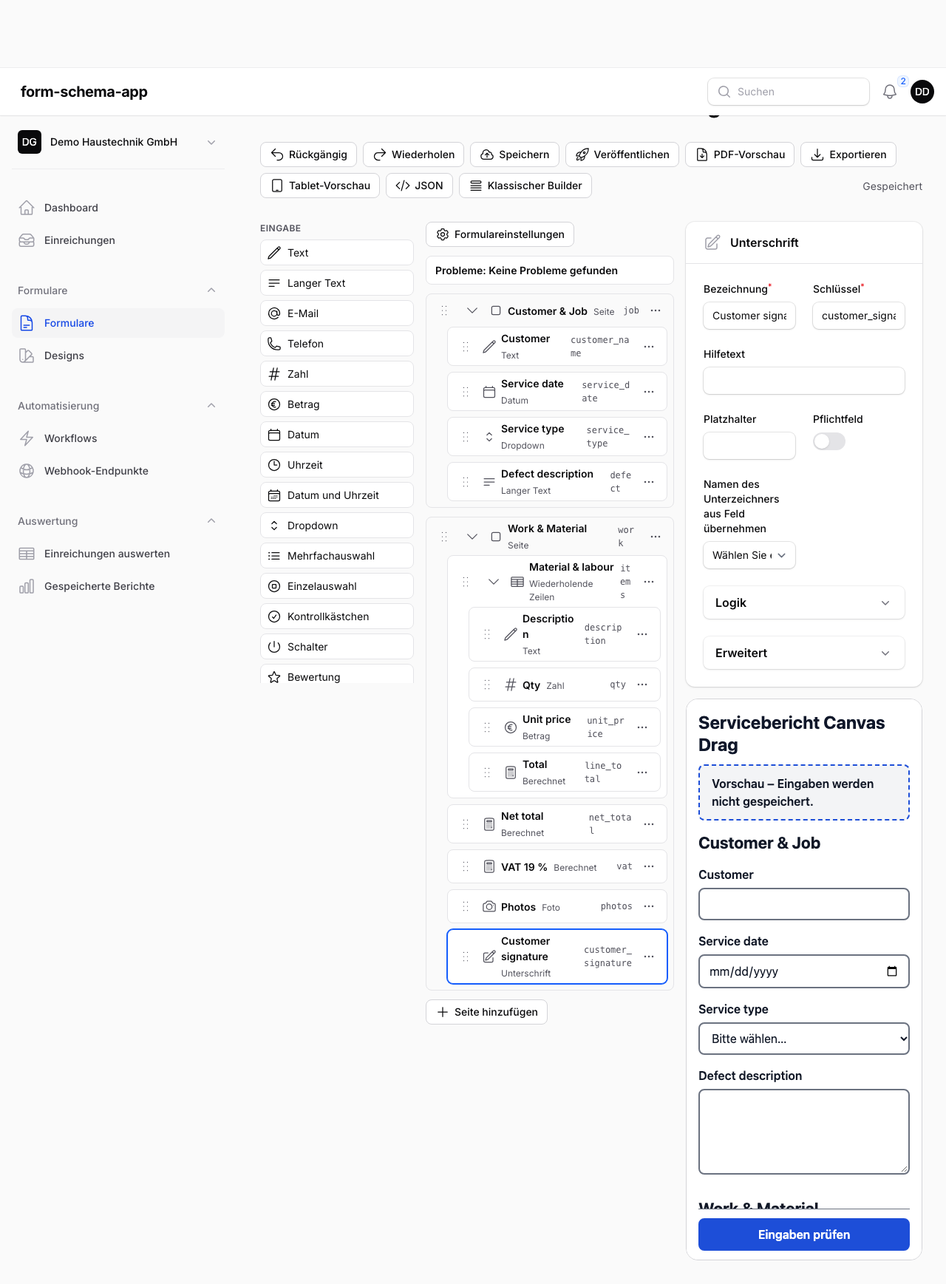
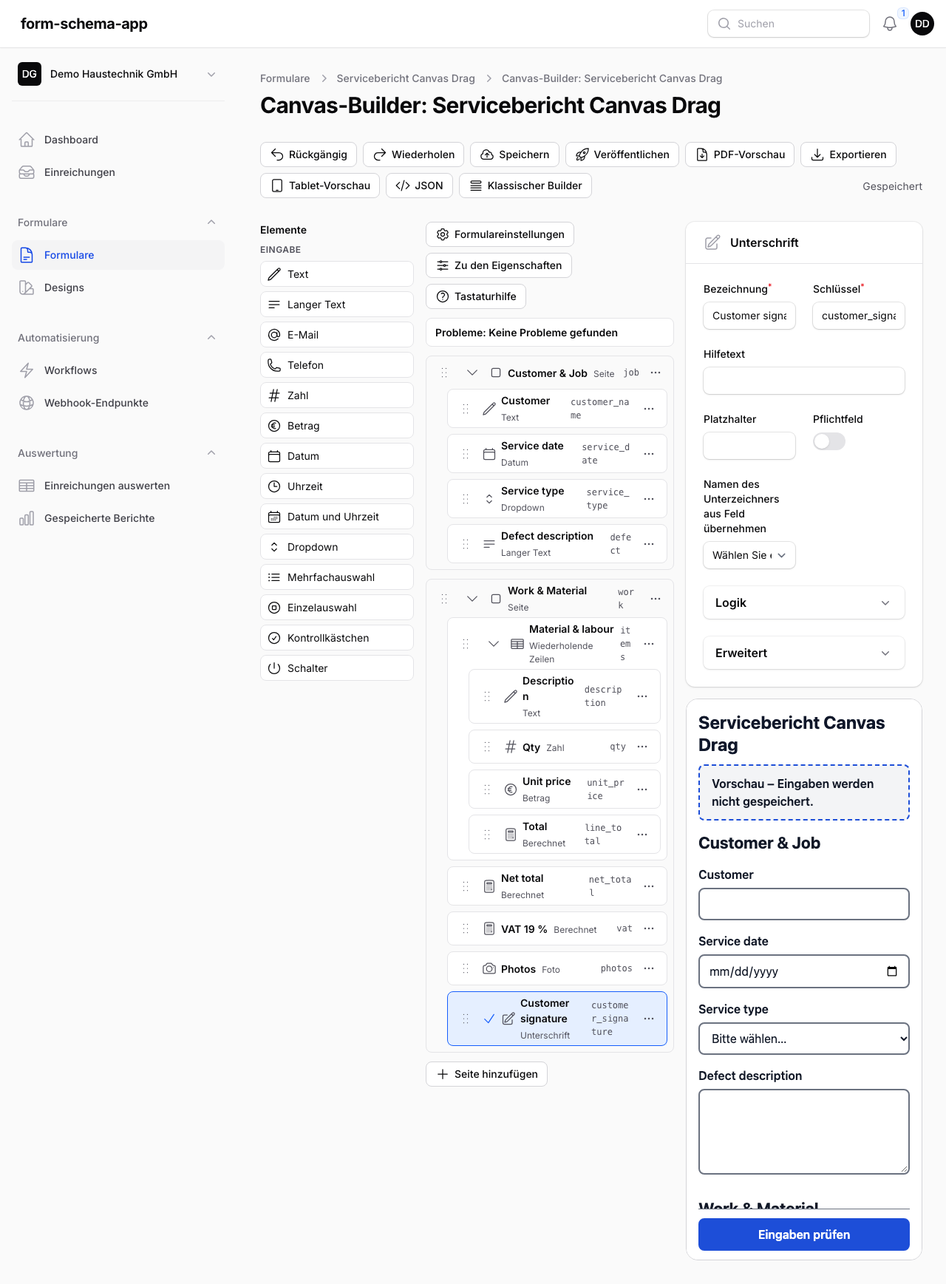
docs: M7 gate report, plan, journal, state, QUESTIONS 18

diff --git a/docs/agent/milestones/M7.md b/docs/agent/milestones/M7.md
@@ -1,121 +1,87 @@
-# M7 SSO + Builder v2: working notes (gate report follows at T13)
+# M7 SSO + Builder v2: gate report (2026-10-18)
 
-Architecture: ADR 0036 (SSO), ADR 0037 (Builder v2). Agents read both ADRs and this file.
+Architecture: ADR 0036 (SSO) and ADR 0037 (Builder v2), both with amendments. The parallel-agent ownership notes from this milestone are in git history (`git log -- docs/agent/milestones/M7.md`).
 
-## Rules for all M7 agents
-- Shared working tree. Edit only the files you own. Never commit and never change git state; the orchestrator commits.
-- No composer/npm installs, migrations or route changes: ask the orchestrator in your report.
-- PHP tests use your own DB (`DB_DATABASE=form_schema_test_<x>`, given in your brief).
-- TDD. Files < 400 lines, functions < 50 lines, nesting ≤ 4. Domain code in app/Domain, thin Filament/controllers.
-- Never weaken or delete a test. List every changed assertion with the reason.
-- Gates for your slice:
-  - PHP: Pest for your tests, then the full suite at the end; PHPStan (both configs); Pint; `vendor/bin/rector --dry-run` must report 0 files.
-  - JS: typecheck, lint, prettier, test.
+## What was built
+### SSO (§8.7)
+- **Data model:** per-organization identity providers (OIDC or SAML) with encrypted config and a write-only secret; DNS-verified domains that only one organization can verify; claim mappings (role XOR group, never Owner); external identities keyed by provider + subject.
+- **OIDC:** socialiteproviders/openidconnect 1.0.1, covering Entra (tenant and `tid`), Google Workspace (`hd` + email_verified) and generic OIDC (Keycloak, Authentik, Zitadel).
+  - id_token checks: issuer, audience, signature (JWKS), nonce and PKCE S256.
+  - A Google or Microsoft issuer requires its flavor.
+  - HTTP goes through an SSRF-guarded client with address pinning.
+- **SAML 2.0:** socialiteproviders/saml2 4.10 plus our own hardening (Audience, Recipient, Destination, InResponseTo, replay after signature, XXE).
+  - The ACS runs without a session and hands over through a one-time ticket.
+  - The subject is a persistent NameID or a configured stable attribute.
+- **Home-realm discovery:** email-first login in the admin panel and the Field App, throttled per address and IP. Enforced domains go straight to the IdP; others choose between the IdP and a password.
+- **JIT and mapping:** membership with a default role and group; IdP-managed roles and groups re-synced on every login; deactivated users and memberships refused; cross-organization invitations work under enforcement.
+- **Enforcement:**
+  - Password login and reset are refused for enforced domains on Fortify, Filament and invitation paths.
+  - A break-glass Owner keeps password + MFA, and responses for enforced addresses are uniform.
+  - Switching enforcement on ends password sessions.
+  - Managed email addresses cannot leave the domain.
+- **Administration:** an Owner-gated SSO page with copyable URLs, TXT instructions, a test sign-in with its result, translated last errors, the enforcement preconditions and a confirmation step.
+  - Connection changes unlink identities and alert the Owners.
+  - Daily domain recheck and hourly provider check; `sso_misconfigured` notifications, throttled.
+  - Login CSRF protection through session-bound start tokens.
+  - Production refuses the dev-only settings.
+- **Keycloak 26.7.5** in compose (profile `sso`, also in CI), with a realm containing OIDC and SAML clients, a groups mapper and a user-id mapper. A demo seed provides orgs `sso-demo` (OIDC, enforced) and `saml-demo` (SAML).
 
-## SSO (ADR 0036)
-### Stable interfaces (namespace `App\Domain\Identity\Sso\…`; created by the skeleton)
-```php
-final readonly class ExternalProfile { /** @param array<string,mixed> $claims sanitized: groups, hd, tid, amr */
-  public function __construct(public IdentityProviderType $via, public string $issuer, public string $subject,
-    public ?string $email, public bool $emailVerified, public ?string $name, public array $claims) {} }
-final readonly class DiscoveryResult { public function __construct(public ?IdentityProvider $provider,
-  public ?string $redirectUrl, public bool $enforced) {} public function isSso(): bool; }
-final readonly class ProviderHealth { public function __construct(public bool $ok, public ?string $reason = null, public ?string $detail = null) {} }
-final class SsoRequiredException extends \RuntimeException { public function __construct(public readonly DiscoveryResult $discovery) }
-final class SsoLoginRefused extends \RuntimeException { public function __construct(public readonly SsoRefusal $reason) }
-// implemented by A
-interface HomeRealmDiscovery { public function discover(string $email, SsoClient $client): DiscoveryResult; }
-interface PasswordAuthGate { /** @throws SsoRequiredException */ public function assertPasswordLogin(string $email): void;
-  /** @throws SsoRequiredException */ public function assertPasswordReset(string $email): void; public function isBreakGlass(User $user): bool; }
-interface SsoProviderFactory { public function oidc(IdentityProvider $p): \SocialiteProviders\OpenIDConnect\Provider;
-  public function saml(IdentityProvider $p): \SocialiteProviders\Saml2\Provider; }
-interface ProviderHealthCheck { public function check(IdentityProvider $p): ProviderHealth; }
-final readonly class CompleteSsoLogin { /** @throws SsoLoginRefused */ public function handle(IdentityProvider $p, ExternalProfile $profile): User; }
-// implemented by B
-interface SsoMisconfigurationReporter { public function report(IdentityProvider $p, string $reason, string $detail): void; }
-interface TxtRecordResolver { /** @return list<string> */ public function txt(string $name): array; }
-final readonly class AddSsoDomain { public function handle(Organization $org, string $domain, User $actor): SsoDomain; }
-final readonly class VerifySsoDomain { public function handle(SsoDomain $domain, ?User $actor = null): DomainVerification; }
-final readonly class SaveIdentityProvider { /** @param array<string,mixed> $config */ public function handle(Organization $org,
-  IdentityProviderType $type, string $name, array $config, ?string $newSecret, User $actor): IdentityProvider; }
-final readonly class SetSsoEnforcement { /** @throws ValidationException */ public function handle(IdentityProvider $p, bool $on, ?User $breakGlass, User $actor): void; }
-```
+### Builder v2 (§8.2)
+- **Canvas page:** a page next to the classic builder that edits the same draft, so no migration.
+  - The browser holds the working copy (TypeScript store with pure operations, 100-step undo/redo); the server validates whole definitions (`SyncDraft`) with a checksum guard against stale tabs, in both builders.
+  - Page HTML is 82.7 kB, against 4.5 MB for v1; JS is 34 kB gzipped.
+- **Interaction:**
+  - Palette, canvas and inspector. The canvas is a keyed DOM renderer under `wire:ignore`, with our own SortableJS 1.15.7 import.
+  - Full keyboard model: pick up, move, into or out of groups, between pages, Move menu with Shift+F10, add/remove columns, "Go to properties". A live region announces changes.
+  - The inspector reuses the v1 fields (logic and calculation editors). Server key suggestions never overwrite a typed key.
+- **Server operations:** publish, Preview PDF and export are guarded by the draft checksum, and publish re-reads the draft under its lock. Explicit saves are audited.
+- **Cloning:** fresh ids, unique keys and rewritten references (this also fixed v1's duplicate `_copy` keys).
 
-Field App contract:
-- `POST /auth/sso/discover` returns plain JSON (not the API envelope, like the Fortify routes).
-- The IdP returns to `/app/login?sso=ok|sso_error=<code>`.
-- A Fortify login refused by enforcement answers 422 `{message, errors:{sso_required:[msg]}}`.
-- Error codes: sso_failed, sso_denied, account_inactive, not_member, domain_not_verified, email_unverified, provider_unavailable.
+## Acceptance criteria → tests
+| Requirement | Test |
+|---|---|
+| §8.7 AC login through Keycloak creates a user with the mapped role | E2E `tests/e2e/m7-sso.spec.ts` (Field App and admin; Designer via groups mapping, default role without groups), `m7-saml.spec.ts` (Reviewer); `tests/Feature/Sso/{OidcLogin,JitProvisioning,MappingSync,SamlLogin}Test.php` |
+| §8.7 AC enforcement rejects password login for SSO domains | E2E `m7-sso.spec.ts` (no password step; `/auth/login` and forgot-password → 422 `sso_required`; break-glass with TOTP still works); `EnforcementTest`, `CoreBreakGlassTest`, `AdminLoginDiscoveryTest` |
+| §8.7 domain verification, discovery, JIT, audit | `tests/Feature/Sso/Admin/*`, `DiscoveryTest`, `CoreReturningDomainTest`, `CoreInvitationTest`, `SsoModelsTest` |
+| §8.7 security (review) | `AdminFix{Security,AttackPath,Profile}Test`, `CoreFrontChannelTest`, `CoreLoginCsrfTest`, `CoreIssuerFlavorTest`, `CoreSamlSubjectTest`, `ProductionGuardTest`, `SsrfGuardTest` |
+| §8.2 AC build the §7.2 example without touching JSON | E2E `m7-builder-v2.spec.ts` (by drag and by keyboard only, both publish) |
+| §8.2 AC invalid definitions cannot be published | `SyncDraftTest`, `CanvasFixPublishTest`, `CanvasBuilderPageTest`; E2E lint panel |
+| §8.2 AC preview = Field App | same `/form-preview/` renderer iframe; E2E preview step |
+| §8.2 AC Builder ↔ spec mapping lossless | `tests/Unit/Forms/NodeMapperTest.php` (every node of every template), Vitest `fidelity.test.ts`, E2E v1 ↔ v2 round trip |
+| §11 accessibility of the builder | E2E axe check on the canvas; Vitest ARIA/keyboard/focus tests |
 
-### Ownership
-**A: backend login core** (M7-T03, T04 server, T05, T06 server, T09)
-- Domain code:
-  - app/Domain/Identity/Sso/Providers/**, Login/**
-  - Discovery/VerifiedDomainDiscovery, Enforcement/DomainPasswordGate
-  - Health/FetchProviderHealth, Health/CheckProvidersCommand
-- HTTP: app/Http/Controllers/Sso/**, app/Http/Middleware/Sso/**
-- Existing files: FortifyServiceProvider.php, app/Actions/Fortify/ResetUserPassword.php, app/Domain/Audit/Listeners/LogAuthEvents.php, AcceptInvitation, InvitationController
-- Lang: lang/{en,de}/sso.php
-- Tests: tests/Feature/Sso/{Oidc,Jit,Mapping,Enforcement,Discovery,Saml,Health}*Test.php, tests/Unit/Sso/**, tests/Support/Sso/{FakeOidcIdp,FakeSamlIdp}.php, tests/Fixtures/saml/**
+## Gate results
+- **PHP:** 4303 tests green; coverage total 95.10 %, SDK 99.69 %, `Domain/Forms/Schema` 100 %, tenancy 100 %.
+  - PHPStan levels 8 and 10: 0 errors. Rector and Pint clean.
+  - Licenses OK (207 Composer, 660 npm); `composer audit` and `npm audit` clean.
+- **JS:**
+  - Tests: form-schema-js 608, renderer 111, Field App 614, builder-v2 243.
+  - Typecheck, ESLint, Prettier and build clean.
+  - Conformance: 391 PHP, 392 JS.
+- **E2E:** 34/34 in two runs, each on a fresh seed with Keycloak (`COMPOSE_PROFILES=sso`, `--workers=2`). Evidence is in `evidence/M7/`.
 
-**B: admin config, UI, notifications** (M7-T02, T04 admin, T06 admin, T07)
-- Domain code:
-  - app/Domain/Identity/Sso/Domains/** (DnsTxtRecordResolver, ConfigTxtRecordResolver, DomainName, Add/Verify/RemoveSsoDomain, RecheckSsoDomainsCommand)
-  - app/Domain/Identity/Sso/Admin/** (SaveIdentityProvider, SetSsoEnforcement, Save/DeleteClaimMapping)
-  - Sso/Health/NotifySsoMisconfiguration
-- Notifications: StoredNotification.php, ChannelPreferences.php
-- Policies: app/Policies/{IdentityProviderPolicy,SsoDomainPolicy}.php
-- Filament: app/Filament/Admin/Pages/Sso/**, resources/views/filament/admin/pages/sso/**, app/Filament/Admin/Pages/Auth/{Login,RequestPasswordReset,ResetPassword}.php, AdminPanelProvider.php
-- Lang: lang/{en,de}/sso_admin.php, lang/{en,de}/notifications.php
-- Tests: tests/Feature/Sso/Admin/**, tests/Feature/Auth/AdminLoginDiscoveryTest.php, tests/Feature/Notifications/SsoMisconfiguredTest.php, tests/Support/Sso/FakeTxtRecordResolver.php
-- E2E helper: tests/e2e/support/auth.ts (adminLogin becomes email-first; it lands in the same change as the UI)
+## Reviews (security, correctness, UX/a11y): no critical findings
+| Finding | Severity | Resolution |
+|---|---|---|
+| A non-Owner admin could repoint the IdP and sign in as anyone in the verified domains | high | Owner-only connection/security settings, unlink + alert on change (c1b0c5a) |
+| Inspector edited the previous node after an insert; palette drops landed at index 0 | high | fixed (4a21074) |
+| Columns not keyboard-operable; focus skipped the inspector; Field App had no password option when not enforced | high (UX) | Move menu column items, focus order + Alt+P; choice screen (2a10f1b, 67b582e) |
+| Unauthenticated misconfiguration spoofing via callback `error` / unsigned SAML status | medium | state check first; front-channel input is never a provider fault |
+| JIT default role unchecked; email change leaves the enforced domain; generic flavor for Google; SAML email NameID as subject; returning logins after domain move; cross-org invitations | medium | fixed with tests |
+| Explicit saves not audited; publish could revert a concurrent save | medium/low | audit baseline; checksum-guarded publish under lock |
+| Break-glass enumeration, login CSRF, sessions survive enforcement, flow slots, status races, ACS throttle, production guard | low | fixed |
+| Errors vs warnings by colour, silent lint, data-loss conflict banner, jargon, plurals, confirmations | medium/low (UX) | fixed |
 
-**C: Field App, Keycloak, E2E** (M7-T04 app, T08, T09 E2E)
-- Field App: resources/field-app/src/screens/LoginScreen.tsx, src/screens/login/** (email step, sso return, errors), src/routes/search.ts, src/lib/api/{paths,endpoints,types}.ts, the field-app i18n files, plus their tests
-- docs/api/field-app-v1.md (Authentication)
-- Keycloak: docker/keycloak/**
-- Seeder: database/seeders/SsoDemoSeeder.php
-- E2E: tests/e2e/m7-sso.spec.ts, m7-saml.spec.ts, tests/e2e/support/{keycloak,totp}.ts, tests/e2e/support/field-app.ts (fieldAppLogin becomes email-first)
+Found by the E2E runs:
+- The admin login's password step kept the email step's buttons.
+- libcurl maps `*.localhost` to loopback, so the containers could not reach Keycloak until the address was pinned (LEARNINGS #58).
+- Discovery throttling locked out logins behind one IP (now 10/min per address).
 
-**Orchestrator only:**
-- composer.json/lock, package.json/lock
-- config/sso.php, config/fortify.php, .env.example
-- routes/*, bootstrap/*, app/Providers/SsoServiceProvider.php
-- migrations, skeleton models/enums, factories, User.php, NotificationEvent.php, DatabaseSeeder.php
-- compose*.yaml, .github/workflows/ci.yml
-- docs
-
-## Builder v2 (ADR 0037)
-Contract: resources/builder-v2/src/contract.ts and tests/Fixtures/builder-v2/contract/*.json (orchestrator-owned). Stub page: app/Filament/Admin/Resources/Forms/Pages/CanvasBuilder.php.
-
-**Livewire methods** (A implements, B calls; JSON travels as strings):
-- `sync(string $definition, string $baseChecksum, bool $force=false): array` with `#[Json]`; `{status saved|unchanged|invalid|conflict, checksum, lint{schema_errors,findings}, savedAt}`.
-- `save(...)`: same, but audited.
-- `inspect(string $kind, ?string $id, string $node, string $scope): void`.
-- `commitInspector(string $scope): void`; dispatches the browser event `builder-v2:node-changed` `{kind,id,node(json string)}`.
-- `cloneNode(string $node, string $scopeKeys): string` with `#[Json]`.
-- Actions: `$wire.mountAction('publish'|'previewPdf'|'exportDraft', {checksum})`. Publish dispatches `builder-v2:published` `{version, lockedIds}`.
-- `builder-v2:key-suggested` `{id, key, from}`: server key suggestion after a label change; the client applies it only while the key field still shows `from`.
-- The client's inspector `flush()` returns false when a commit was refused or failed; publish/preview/export/switch/save then stop and announce it.
-
-**Data attributes** (B renders, E2E uses):
-- `[data-builder-root]`, `[data-builder-ready]`, `data-builder-sync-state=idle|pending|saving|saved|invalid|conflict|error`
-- `[data-builder-palette-item="<type>"]`, `[data-builder-page="<id>"]` with `data-builder-page-key`
-- `[data-builder-list]` with `data-builder-container="pages|page:<id>|children:<id>|column:<id>:<i>"`
-- `[data-builder-node="<id>"]` with `data-builder-type`, `data-builder-key`, `aria-selected`; `[data-builder-handle]`
-- `[data-builder-action="move-up|move-down|move-into|move-out|move-page-prev|move-page-next|duplicate|delete|add-column|remove-column"]`
-- `[data-builder-toolbar="undo|redo|save|publish|preview-pdf|export|classic|preview-toggle|json"]`
-- `[data-builder-live]`, `[data-builder-lint-count]`, `[data-builder-lint-item][data-path]`, `[data-builder-inspector]` (with `data-builder-inspected="<id>|settings|"`: the node the inspector currently shows), `iframe[data-builder-preview]` inside `[data-builder-preview-pane]`
-- `[data-builder-goto-inspector]`, `[data-builder-help-toggle]`, `[data-builder-help]`, `#bv2-publish-reason[data-builder-publish-reason]`; Move menu items `data-builder-action=add-column|remove-column` with `data-column`
-
-### Ownership
-**BA: server**
-- New: CanvasBuilder.php (owned after the skeleton), Pages/CanvasInspectorSchema.php, app/Domain/Forms/Builder/{NodeMapper,ElementCloner,PaletteCatalog}.php, app/Domain/Forms/Support/PublishedElementIds.php, app/Domain/Forms/Actions/SyncDraft.php
-- Edited: BuilderMapper.php, BlockCloner.php, Builder/ElementBlocks.php (public `fields($type)`, icons), Pages/FormEditorSchema.php, Pages/EditForm.php (canvas link, loadedChecksum guard, PublishedElementIds), lang/{de,en}/forms.php (`forms.canvas.*`)
-- Tests: tests/Feature/Forms/{CanvasBuilderPageTest,CanvasInspectorTest,SyncDraftTest}.php, tests/Unit/Forms/{NodeMapperTest,ElementClonerTest,PaletteCatalogTest}.php; plus the existing FormBuilderPageTest and BlockClonerTest
-
-**BB: client**
-- resources/builder-v2/** (except package.json and src/contract.ts)
-- resources/views/filament/forms/builder-v2/**
-- lang/{de,en}/builder_v2.php
-- After BA lands: tests/e2e/m7-builder-v2.spec.ts, tests/e2e/support/builder-v2.ts, tests/e2e/fixtures/section-7-2.json
+## Deviations and known issues
+- One IdP per organization. No RP-initiated logout or SAML SLO.
+- Break-glass use is audited but not notified.
+- A pasted SAML metadata certificate rotation no longer notifies (a metadata URL heals itself).
+- On the SSO settings page, pressing Enter in the enforcement form submits without the confirmation dialog; the button path confirms.
+- The reviewer's Field App detail screen showed a generic error panel after approving in an E2E leftover page. To be investigated in M8.
+- Builder v2: v1 stays the default. Screen-reader behaviour of the tree pattern is unverified with real screen readers (M8 a11y audit). Undo history is not persisted.
+- iOS standalone PWA leaving its scope for the IdP is untested (QUESTIONS #18).

diff --git a/docs/agent/PLAN.md b/docs/agent/PLAN.md
@@ -113,19 +113,19 @@ AC refs point at BUILD_PROMPT sections. Test approach in brackets.
 - [x] M6-T11 Gate M6
 
 ## M7 SSO + Builder v2 (branch `m7-sso-builder`)
-- [ ] M7-T01 SSO architecture ADR + versions (laravel/socialite 5.31, socialiteproviders/manager 4.10 + keycloak/microsoft-azure, socialiteproviders/saml2 4.10, filament-socialite 3.3 only if it fits per-org dynamic providers); `identity_providers` (org, type oidc/saml, encrypted config, status) + `sso_domains` (org, domain, TXT token, verified_at) — §8.7, §6.4, §14.2 [model + encryption tests]
-- [ ] M7-T02 Domain verification: DNS TXT check behind a resolver interface (fake resolver in tests/CI), periodic re-check, uniqueness across orgs, audit — §8.7 [feature]
-- [ ] M7-T03 OIDC login per organization: dynamic Socialite provider (Entra, Google, generic OIDC/Keycloak) with PKCE/state/nonce, issuer + audience checks, callback → session; admin (Filament) and Field App (`/auth/sso/...` + device registration) — §8.7, §9.3 [feature with fake IdP]
-- [ ] M7-T04 Home-realm discovery: email-first login on admin and Field App; verified SSO domain → redirect to IdP; otherwise password — §8.7 [feature + Livewire + Field App test]
-- [ ] M7-T05 JIT provisioning + claim mapping: create user + membership with default role/group; optional claims → roles/groups (e.g. Entra groups); updates on each login; deactivated members refused — §8.7, §8.6 [feature]
-- [ ] M7-T06 Enforce SSO per org: password login (admin + Field App + API) rejected for its verified domains; break-glass Owner keeps password + MFA; password reset blocked for enforced domains — §8.7 AC [feature]
-- [ ] M7-T07 SSO admin UI (Filament): provider config (secret shown once), domains with TXT instructions + verify, test login, enforcement toggle with break-glass check; `sso_misconfigured` notification; audit of every auth event — §8.7, §8.9, §8.11 [Livewire]
-- [ ] M7-T08 Keycloak in Docker (dev + CI service) with a realm import (client, users, groups claim); E2E: SSO login creates the user with the mapped role; enforcement rejects password login — §8.7 AC, §12 [E2E]
-- [ ] M7-T09 SAML 2.0 via socialiteproviders/saml2: per-org metadata/ACS endpoints, signed assertions, same JIT/mapping/enforcement; Keycloak SAML client in the realm — §8.7 [feature + E2E if feasible]
-- [ ] M7-T10 Builder v2 architecture ADR: custom Filament page (palette/canvas/inspector), Livewire + Alpine + SortableJS (version check), canonical JSON as the only state, reuse of v1 inspector forms/logic editor, autosave + lint + preview integration — §8.2 [n/a]
-- [ ] M7-T11 Builder v2 canvas: drag from palette, reorder within/between pages and containers (sections, columns, repeaters), keyboard alternatives (move up/down/into/out), selection + inspector, undo/redo; same mapper/linter/publish as v1, switch v1 ↔ v2 without migration — §8.2 [Livewire + JS unit + a11y]
-- [ ] M7-T12 Builder v2 E2E: build the §7.2 example by drag and keyboard, publish, preview matches; v1 ↔ v2 round trip — §8.2 AC, §12 [E2E]
-- [ ] M7-T13 Gate M7
+- [x] M7-T01 SSO architecture ADR + versions (laravel/socialite 5.31, socialiteproviders/manager 4.10 + keycloak/microsoft-azure, socialiteproviders/saml2 4.10, filament-socialite 3.3 only if it fits per-org dynamic providers); `identity_providers` (org, type oidc/saml, encrypted config, status) + `sso_domains` (org, domain, TXT token, verified_at) — §8.7, §6.4, §14.2 [model + encryption tests]
+- [x] M7-T02 Domain verification: DNS TXT check behind a resolver interface (fake resolver in tests/CI), periodic re-check, uniqueness across orgs, audit — §8.7 [feature]
+- [x] M7-T03 OIDC login per organization: dynamic Socialite provider (Entra, Google, generic OIDC/Keycloak) with PKCE/state/nonce, issuer + audience checks, callback → session; admin (Filament) and Field App (`/auth/sso/...` + device registration) — §8.7, §9.3 [feature with fake IdP]
+- [x] M7-T04 Home-realm discovery: email-first login on admin and Field App; verified SSO domain → redirect to IdP; otherwise password — §8.7 [feature + Livewire + Field App test]
+- [x] M7-T05 JIT provisioning + claim mapping: create user + membership with default role/group; optional claims → roles/groups (e.g. Entra groups); updates on each login; deactivated members refused — §8.7, §8.6 [feature]
+- [x] M7-T06 Enforce SSO per org: password login (admin + Field App + API) rejected for its verified domains; break-glass Owner keeps password + MFA; password reset blocked for enforced domains — §8.7 AC [feature]
+- [x] M7-T07 SSO admin UI (Filament): provider config (secret shown once), domains with TXT instructions + verify, test login, enforcement toggle with break-glass check; `sso_misconfigured` notification; audit of every auth event — §8.7, §8.9, §8.11 [Livewire]
+- [x] M7-T08 Keycloak in Docker (dev + CI service) with a realm import (client, users, groups claim); E2E: SSO login creates the user with the mapped role; enforcement rejects password login — §8.7 AC, §12 [E2E]
+- [x] M7-T09 SAML 2.0 via socialiteproviders/saml2: per-org metadata/ACS endpoints, signed assertions, same JIT/mapping/enforcement; Keycloak SAML client in the realm — §8.7 [feature + E2E if feasible]
+- [x] M7-T10 Builder v2 architecture ADR: custom Filament page (palette/canvas/inspector), Livewire + Alpine + SortableJS (version check), canonical JSON as the only state, reuse of v1 inspector forms/logic editor, autosave + lint + preview integration — §8.2 [n/a]
+- [x] M7-T11 Builder v2 canvas: drag from palette, reorder within/between pages and containers (sections, columns, repeaters), keyboard alternatives (move up/down/into/out), selection + inspector, undo/redo; same mapper/linter/publish as v1, switch v1 ↔ v2 without migration — §8.2 [Livewire + JS unit + a11y]
+- [x] M7-T12 Builder v2 E2E: build the §7.2 example by drag and keyboard, publish, preview matches; v1 ↔ v2 round trip — §8.2 AC, §12 [E2E]
+- [x] M7-T13 Gate M7
 
 ## M8 Hardening → 1.0 — break down at M7 gate
 - Audit log UI + CSV + retention pruning (+ optional hash chain); GDPR (per-form retention, legal hold, user export/erasure); accessibility audit; load tests (100k submissions); security review; CSP/HSTS; builder preview on an opaque origin (QUESTIONS #10); docs site, install + upgrade + backup guides; web push (if feasible); `/platform` operator panel; FINAL_REPORT.

diff --git a/docs/agent/STATE.md b/docs/agent/STATE.md
@@ -1,28 +1,26 @@
-# State: 2026-10-18T19:00Z
-Milestone: M7 SSO + Builder v2 · Branch m7-sso-builder (M6 merged, tags m6-done + v0.2.0)
-Done: M7 plan (d061673), ADR 0036 SSO + 0037 Builder v2, M7.md (ownership/interfaces), Builder v2
-skeleton (58c0a78), SSO composer packages (3b3d09c).
-M7 implementation + integration committed. Reviews done; fixes committed: SSO (c1b0c5a: Owner-only
-IdP security, front-channel spoofing, SAML subject, login CSRF), Field App login (67b582e), Builder v2
-E2E fixes (4a21074), production guard (c76cfc9).
-In flight: FB Builder v2 fix agent (review findings: a11y keyboard/focus, audit on save, publish race).
+# State: 2026-10-18T21:00Z
+Milestone: M8 Hardening → 1.0 · Branch m8-hardening (M7 merged, tag m7-done)
+Tasks in flight: none. M8 broken down in PLAN (M8-T01..T10).
 Last commit: see `git log -1`
 
 ## Next actions
-1. FB result → commit; rebuild (COMPOSE_PROFILES=sso), reseed, full E2E ×2 (--workers=2).
-2. Gate M7: coverage.sh, PHPStan, Rector, Pint, JS (4 workspaces), conformance, licenses; M7.md;
-   merge, tag m7-done; branch m8-hardening; break down M8.
+1. M8 parallel work with disjoint ownership (one ADR per architectural choice):
+   - audit UI + retention + trigger/hash chain (T01) and GDPR retention/export/erasure (T02);
+   - security hardening incl. opaque preview origin (T03) and /platform panel (T06);
+   - a11y audit (T04), performance/load evidence (T05), docs/guides (T07), carry-overs (T08).
+2. Gate M8, then release 1.0 (T09): final gate on main, FINAL_REPORT.md, STATE "Run complete".
 
 ## Known problems
-- Builder v1 page heavy (QUESTIONS #8): E2E waits 30 s for its navigation/publish.
-- Preview iframe same-origin (QUESTIONS #10, M8) — now also guards the Field App's IndexedDB.
-- E2E: `npm run e2e` (browsers in storage/playwright); `php artisan cache:clear` in the app container
-  between quick reruns; use `--workers=2` when the machine is loaded (antivirus spikes).
+- Reviewer's Field App detail showed a generic error panel after approving (M7 E2E leftover page) — T08.
+- Builder v1 page heavy (QUESTIONS #8); v2 exists, v1 still default — decide in T08.
+- E2E: `npm run e2e -- --workers=2` with `COMPOSE_PROFILES=sso` (Keycloak); `php artisan cache:clear` in
+  the app container between quick reruns; recreate Keycloak after realm changes
+  (`docker compose up -d --force-recreate keycloak`).
 - E2E runs rewrite evidence PNGs of earlier milestones: `git checkout` them before committing.
-- Field App tests that touch Dexie with fake timers must use FAKE_TIMERS (LEARNINGS #50).
+- Field App tests touching Dexie with fake timers must use FAKE_TIMERS (LEARNINGS #50).
 
 ## Resume commands
-docker compose up -d
+COMPOSE_PROFILES=sso docker compose up -d --wait
 DB_DATABASE=form_schema_test php artisan test --compact --parallel
-npm run test -w resources/field-app
+npm run test
 vendor/bin/rector --dry-run --no-progress-bar   # CI gate, must be 0 files

diff --git a/docs/agent/JOURNAL.md b/docs/agent/JOURNAL.md
@@ -87,3 +87,12 @@
   limit → third demo worker. Reviews: 4 high security/correctness + 4 high UX; all fixed (c597dde, d6479da).
 - Gate: PHP 3799, coverage 95.00 %, PHPStan 0/0, Rector/Pint clean, JS 608/111/557, conformance
   391/392, E2E 24/24 ×2 (--workers=2: antivirus load ~100). Release 0.2.0.
+
+## 2026-10-18 M7 gate (SSO + Builder v2)
+- Two design agents → ADR 0036 (SSO), 0037 (Builder v2); skeletons by me/an agent; five parallel agents
+  (SSO core/admin/Field App+Keycloak, Builder server/client) + an E2E fixer.
+- E2E found: admin login step actions, libcurl *.localhost (pinning), discovery throttle per IP, palette
+  drop index + inspector not following inserts. Reviews: 1 high security (IdP repoint by Admin), 3 high
+  UX/correctness; all fixed (c1b0c5a, 2a10f1b, 67b582e, c2a00a5).
+- Gate: PHP 4303, coverage 95.10 %, PHPStan 0/0, Rector/Pint clean, JS 608/111/614/243, conformance
+  391/392, E2E 34/34 ×2 with Keycloak.

diff --git a/docs/agent/QUESTIONS.md b/docs/agent/QUESTIONS.md
@@ -57,3 +57,8 @@ Format: question · chosen option · impact · how to reverse.
    Suffix List (no PSL package installed) · accepted: the DNS TXT proof is the real control, the suffix
    check only stops obvious mistakes (e.g. `co.uk`) · an exotic public suffix can be claimed but never
    verified without control of its DNS · add a maintained PSL package if admins report confusing cases.
+18. SSO from the installed iOS PWA (standalone) leaves the app's scope for the external IdP; iOS may
+   open it in a separate browser context with its own cookie jar, so the return to `/app/login?sso=ok`
+   might not carry the session (ADR 0036) · untested (no device in this run) · field workers on iPhones
+   who installed the app could fail to sign in with SSO · test on a real device in M8/1.0; fallback:
+   start SSO in Safari, or use the password option when the organization does not enforce SSO.
